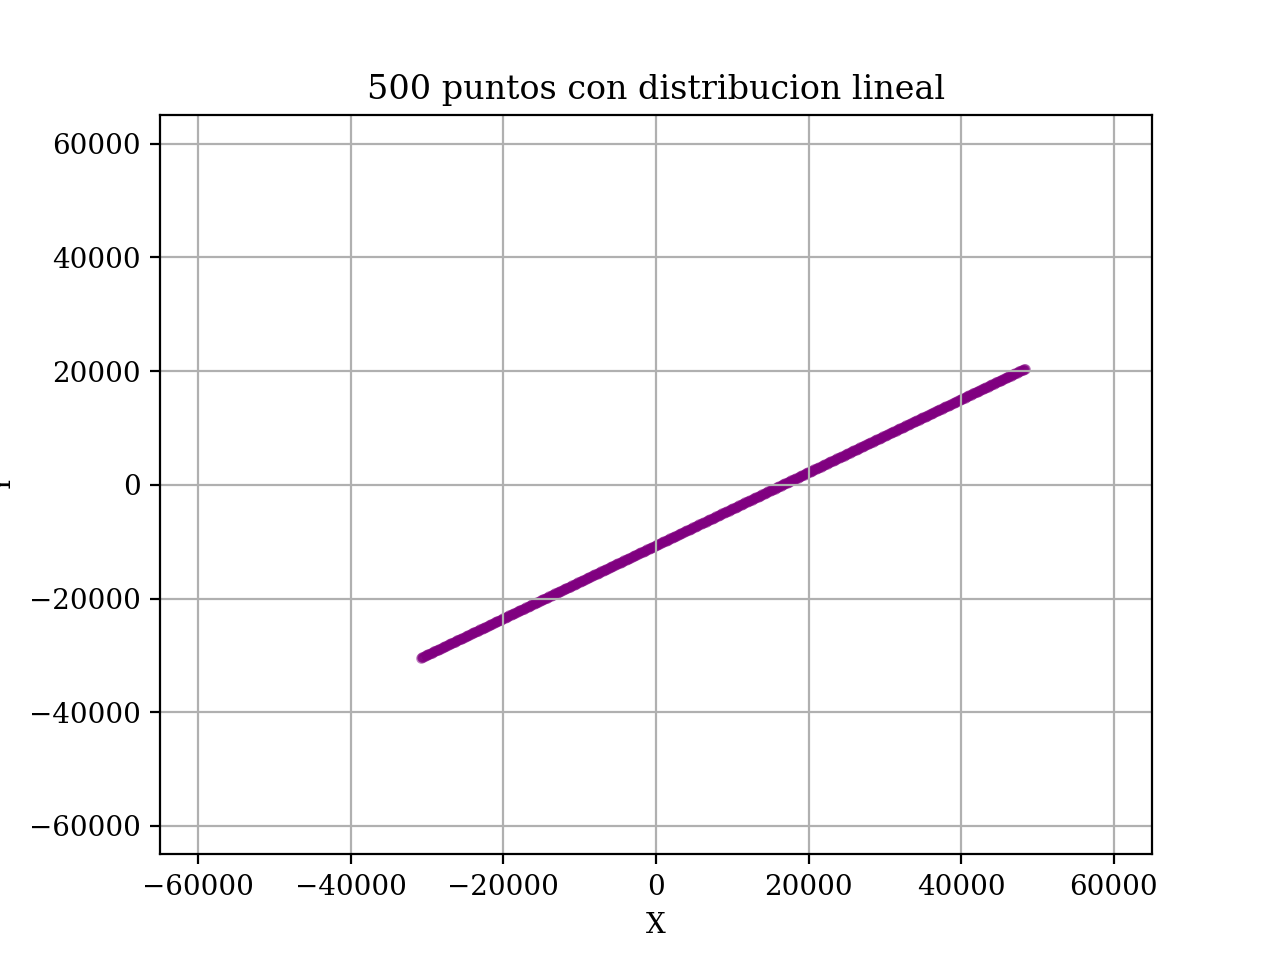
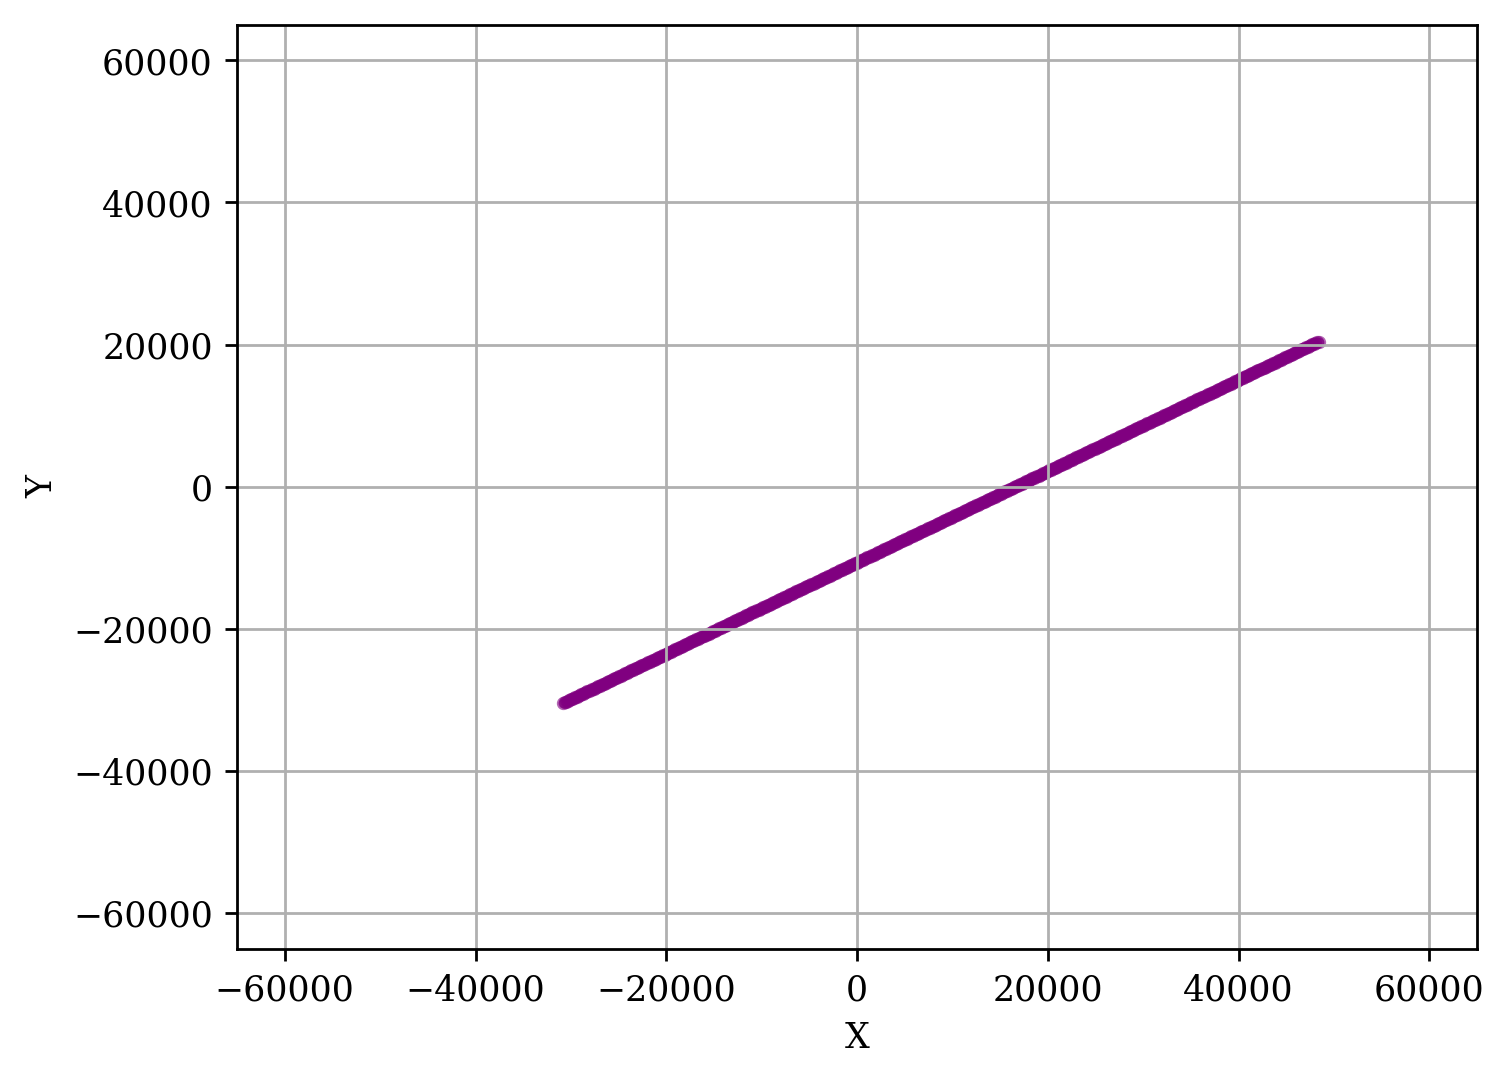
graficos mas ajustados

diff --git a/graficos/graficos_R2.py b/graficos/graficos_R2.py
@@ -12,16 +12,15 @@ datos = np.loadtxt('..\instancias\distribucion\inst_dim2_n500_clusters.txt', ski
 puntos = datos[:, :2]
 pesos = datos[:, 2]
 
-plt.scatter(puntos[:, 0], puntos[:, 1], s=5, alpha=0.5, c='purple')
+plt.scatter(puntos[:, 0], puntos[:, 1], s=8, alpha=0.6, c='purple')
 plt.xlim(-65000, 65000)
 plt.ylim(-65000, 65000)
 
 n = len(puntos)
-plt.title(f'{n} puntos con distribucion en clusters')
 plt.xlabel('X')
 plt.ylabel('Y')
 plt.grid(True)
-plt.savefig(fname = f'{n}_pts_cluster',dpi=200)
+plt.savefig(fname=f'{n}_pts_cluster', dpi=250, bbox_inches='tight')
 plt.close()
 
 # %%
@@ -30,16 +29,15 @@ datos = np.loadtxt('..\instancias/distribucion/inst_dim2_n500_lineal.txt', skipr
 puntos = datos[:, :2]
 pesos = datos[:, 2]
 
-plt.scatter(puntos[:, 0], puntos[:, 1], s=8, alpha=0.5, c='purple')
+plt.scatter(puntos[:, 0], puntos[:, 1], s=8, alpha=0.6, c='purple')
 plt.xlim(-65000, 65000)
 plt.ylim(-65000, 65000)
 
 n = len(puntos)
-plt.title(f'{n} puntos con distribucion lineal')
 plt.xlabel('X')
 plt.ylabel('Y')
 plt.grid(True)
-plt.savefig(fname = f'{n}_pts_lineal',dpi=200)
+plt.savefig(fname = f'{n}_pts_lineal',dpi=250, bbox_inches='tight')
 plt.close()
 # %%
 
@@ -47,15 +45,14 @@ datos = np.loadtxt('..\instancias/distribucion/inst_dim2_n500_uniforme.txt', ski
 puntos = datos[:, :2]
 pesos = datos[:, 2]
 
-plt.scatter(puntos[:, 0], puntos[:, 1], s=8, alpha=0.5, c='purple')
+plt.scatter(puntos[:, 0], puntos[:, 1], s=8, alpha=0.6, c='purple')
 plt.xlim(-65000, 65000)
 plt.ylim(-65000, 65000)
 
 n = len(puntos)
-plt.title(f'{n} puntos con distribucion uniforme')
 plt.xlabel('X')
 plt.ylabel('Y')
 plt.grid(True)
-plt.savefig(fname = f'{n}_pts_uniforme',dpi=200)
+plt.savefig(fname = f'{n}_pts_uniforme',dpi=250, bbox_inches='tight')
 plt.close()
 # %%
